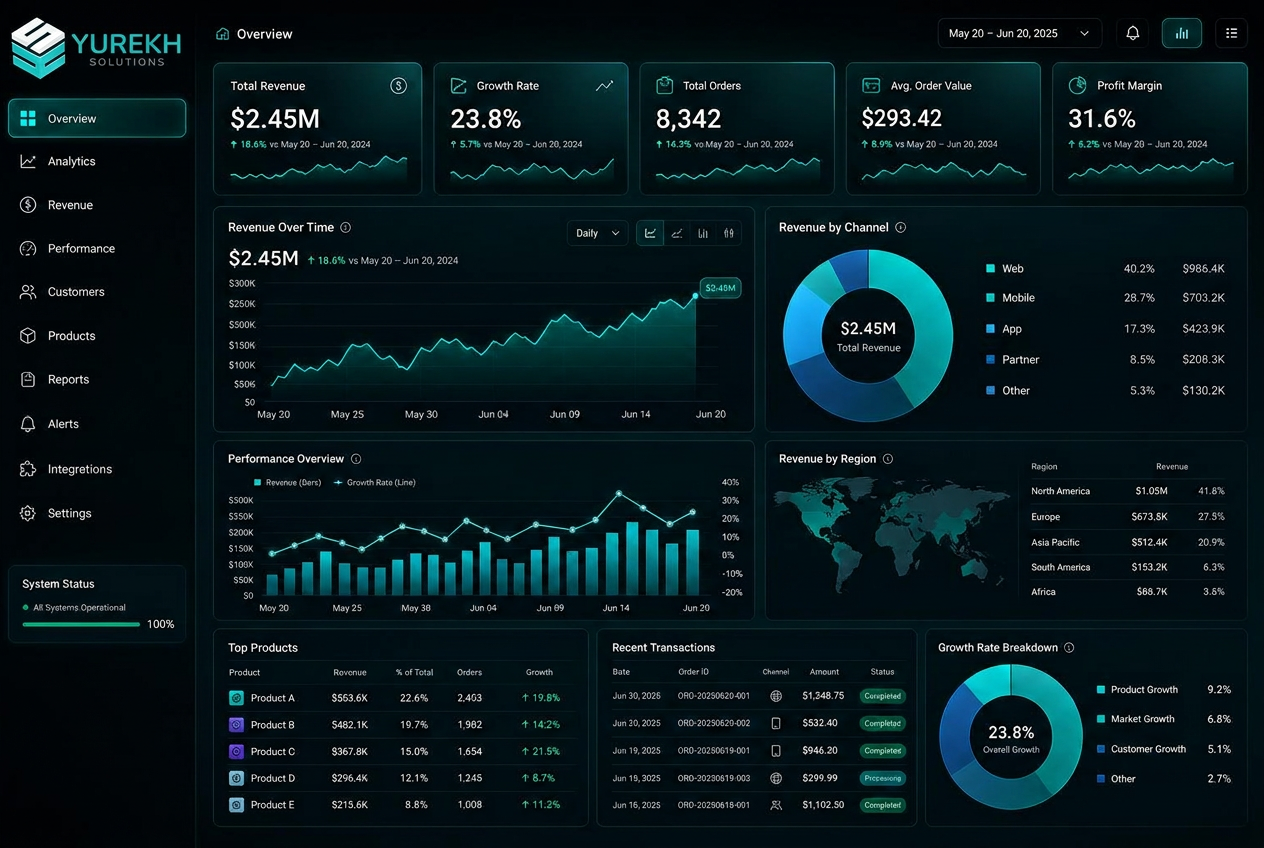
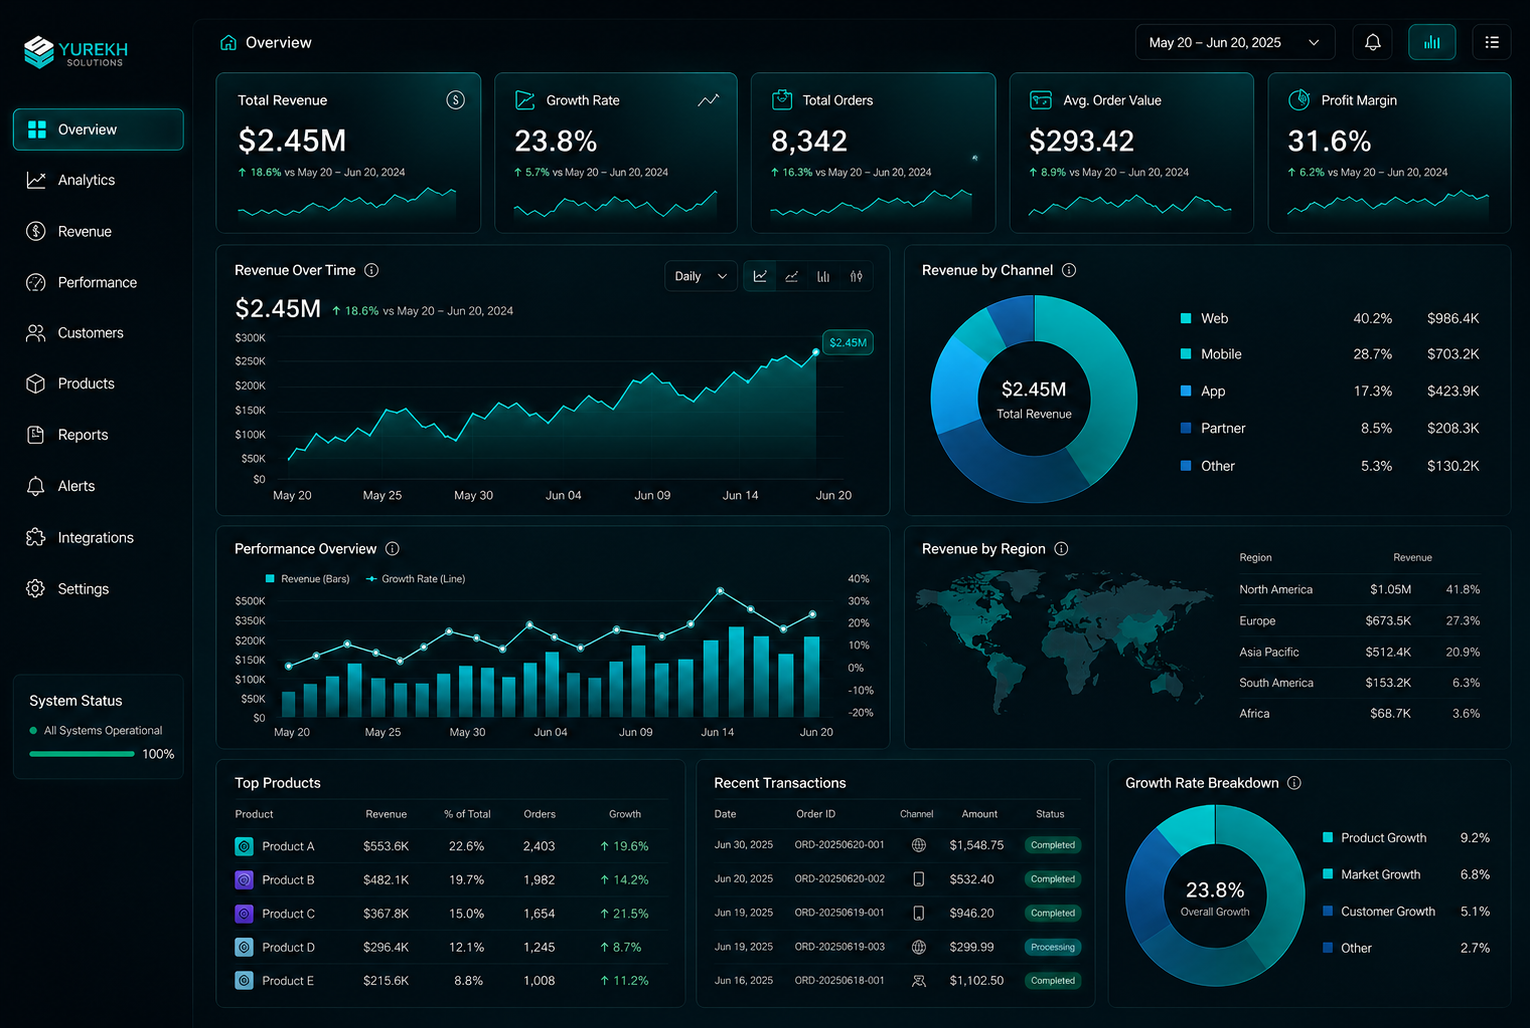
Fix mobile responsiveness and reduce font bulkiness
- Reduced heading font weights from 600 to 500 globally (index.css)
- Added font-weight: 400 to paragraph styles
- Hero component: buttons now full-width on mobile (max-w-md centered)
- Button height increased from 44px to 48px for better touch targets
- Button border-radius increased from 10px to 12px
- Button font sizes adjusted (13px → 14px clamp)
- Eyebrow badge font-weight reduced from 600 to 500
- All buttons use w-full for consistent mobile alignment
- Matches reference design: clean full-width buttons, lighter typography

diff --git a/src/components/Hero.tsx b/src/components/Hero.tsx
@@ -61,7 +61,7 @@ const Hero = () => {
         <div className="flex justify-center mt-14 sm:mt-0 mb-5 sm:mb-8 w-full">
           <span className="inline-flex items-center gap-1.5 sm:gap-2 px-3 sm:px-4 py-1.5 sm:py-2 rounded-full border border-[#1BE1D3]/20 bg-[#1BE1D3]/5">
             <Sparkles className="w-3 h-3 sm:w-3.5 sm:h-3.5 text-[#1BE1D3] flex-shrink-0" strokeWidth={1.8} />
-            <span className="text-[#1BE1D3] font-semibold text-[10px] sm:text-[11px] tracking-[0.12em] sm:tracking-[0.25em] uppercase" style={{ fontFamily: "Poppins, sans-serif" }}>
+            <span className="text-[#1BE1D3] font-medium text-[10px] sm:text-[11px] tracking-[0.12em] sm:tracking-[0.25em] uppercase" style={{ fontFamily: "Poppins, sans-serif", fontWeight: 500 }}>
               Business Partner in Global Growth
             </span>
           </span>
@@ -71,7 +71,7 @@ const Hero = () => {
           className="text-white mb-6 sm:mb-8 text-center px-2"
           style={{
             fontFamily: "Montserrat, sans-serif",
-            fontWeight: 600,
+            fontWeight: 500,
             fontSize: "clamp(26px, 5vw, 48px)",
             lineHeight: "1.25",
             letterSpacing: "-0.02em",
@@ -104,46 +104,46 @@ const Hero = () => {
 
         {/* CTA Buttons */}
         <motion.div
-          className="flex flex-col sm:flex-row items-center gap-3 sm:gap-4 mb-8 sm:mb-10 w-full sm:w-auto"
+          className="flex flex-col items-center gap-3 sm:gap-4 mb-8 sm:mb-10 w-full max-w-md mx-auto sm:max-w-none"
           initial={{ opacity: 0, y: 20 }}
           animate={{ opacity: 1, y: 0 }}
           transition={{ duration: 0.8, delay: 1 }}
         >
-          <Link to="/bookingform" className="w-full sm:w-auto">
+          <Link to="/bookingform" className="w-full">
             <button
               style={{
                 fontFamily: "Poppins, sans-serif",
-                fontWeight: 600,
-                fontSize: "clamp(13px, 2vw, 15px)",
+                fontWeight: 500,
+                fontSize: "clamp(14px, 2vw, 15px)",
                 padding: "0 24px",
-                height: "44px",
-                borderRadius: "10px",
+                height: "48px",
+                borderRadius: "12px",
                 backgroundColor: "#1BE1D3",
                 color: "#000",
                 border: "none",
                 boxShadow: "0 0 30px rgba(27,225,211,0.15)",
               }}
-              className="hover:bg-[#1BE1D3]/90 hover:shadow-[0_0_40px_rgba(27,225,211,0.3)] transition-all duration-300 flex items-center justify-center gap-2 w-full sm:w-auto"
+              className="hover:bg-[#1BE1D3]/90 hover:shadow-[0_0_40px_rgba(27,225,211,0.3)] transition-all duration-300 flex items-center justify-center gap-2 w-full"
             >
               Book a Consultation <ArrowRight className="w-4 h-4" />
             </button>
           </Link>
-          <Link to="/launch-in-india" className="w-full sm:w-auto">
+          <Link to="/launch-in-india" className="w-full">
             <button
               style={{
                 fontFamily: "Poppins, sans-serif",
                 fontWeight: 400,
-                fontSize: "clamp(13px, 2vw, 15px)",
+                fontSize: "clamp(14px, 2vw, 15px)",
                 padding: "0 24px",
-                height: "44px",
-                borderRadius: "10px",
+                height: "48px",
+                borderRadius: "12px",
                 backgroundColor: "rgba(27,225,211,0.08)",
                 color: "#1BE1D3",
                 border: "1px solid rgba(27,225,211,0.3)",
                 backdropFilter: "blur(12px)",
                 boxShadow: "0 0 30px rgba(27,225,211,0.1), inset 0 1px 0 rgba(255,255,255,0.05)",
               }}
-              className="hover:bg-[rgba(27,225,211,0.15)] hover:border-[rgba(27,225,211,0.5)] transition-all duration-300 w-full sm:w-auto"
+              className="hover:bg-[rgba(27,225,211,0.15)] hover:border-[rgba(27,225,211,0.5)] transition-all duration-300 w-full"
             >
              Build Business
             </button>

diff --git a/src/index.css b/src/index.css
@@ -139,10 +139,10 @@
     -moz-osx-font-smoothing: grayscale;
   }
 
-  /* Headings - Montserrat, consistent weights */
+  /* Headings - Montserrat, lighter weights */
   h1, h2, h3, h4, h5, h6 {
     font-family: "Montserrat", sans-serif;
-    font-weight: 600;
+    font-weight: 500;
     line-height: 1.25;
     letter-spacing: -0.01em;
   }
@@ -178,6 +178,7 @@
     font-size: 16px;
     line-height: 1.7;
     letter-spacing: normal;
+    font-weight: 400;
   }
 }
 
